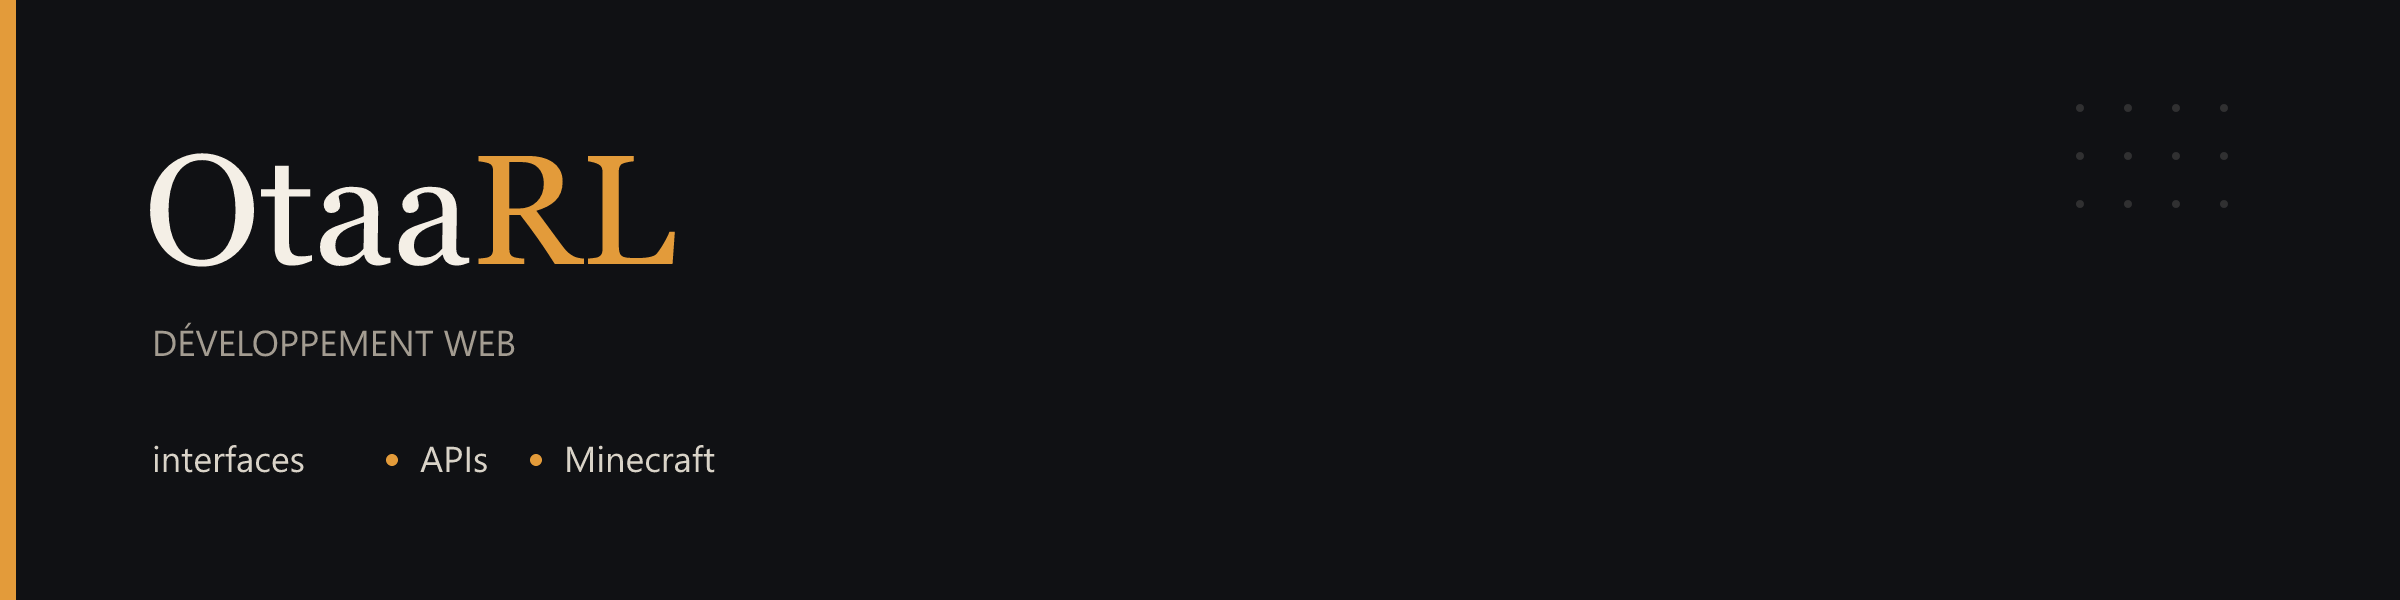
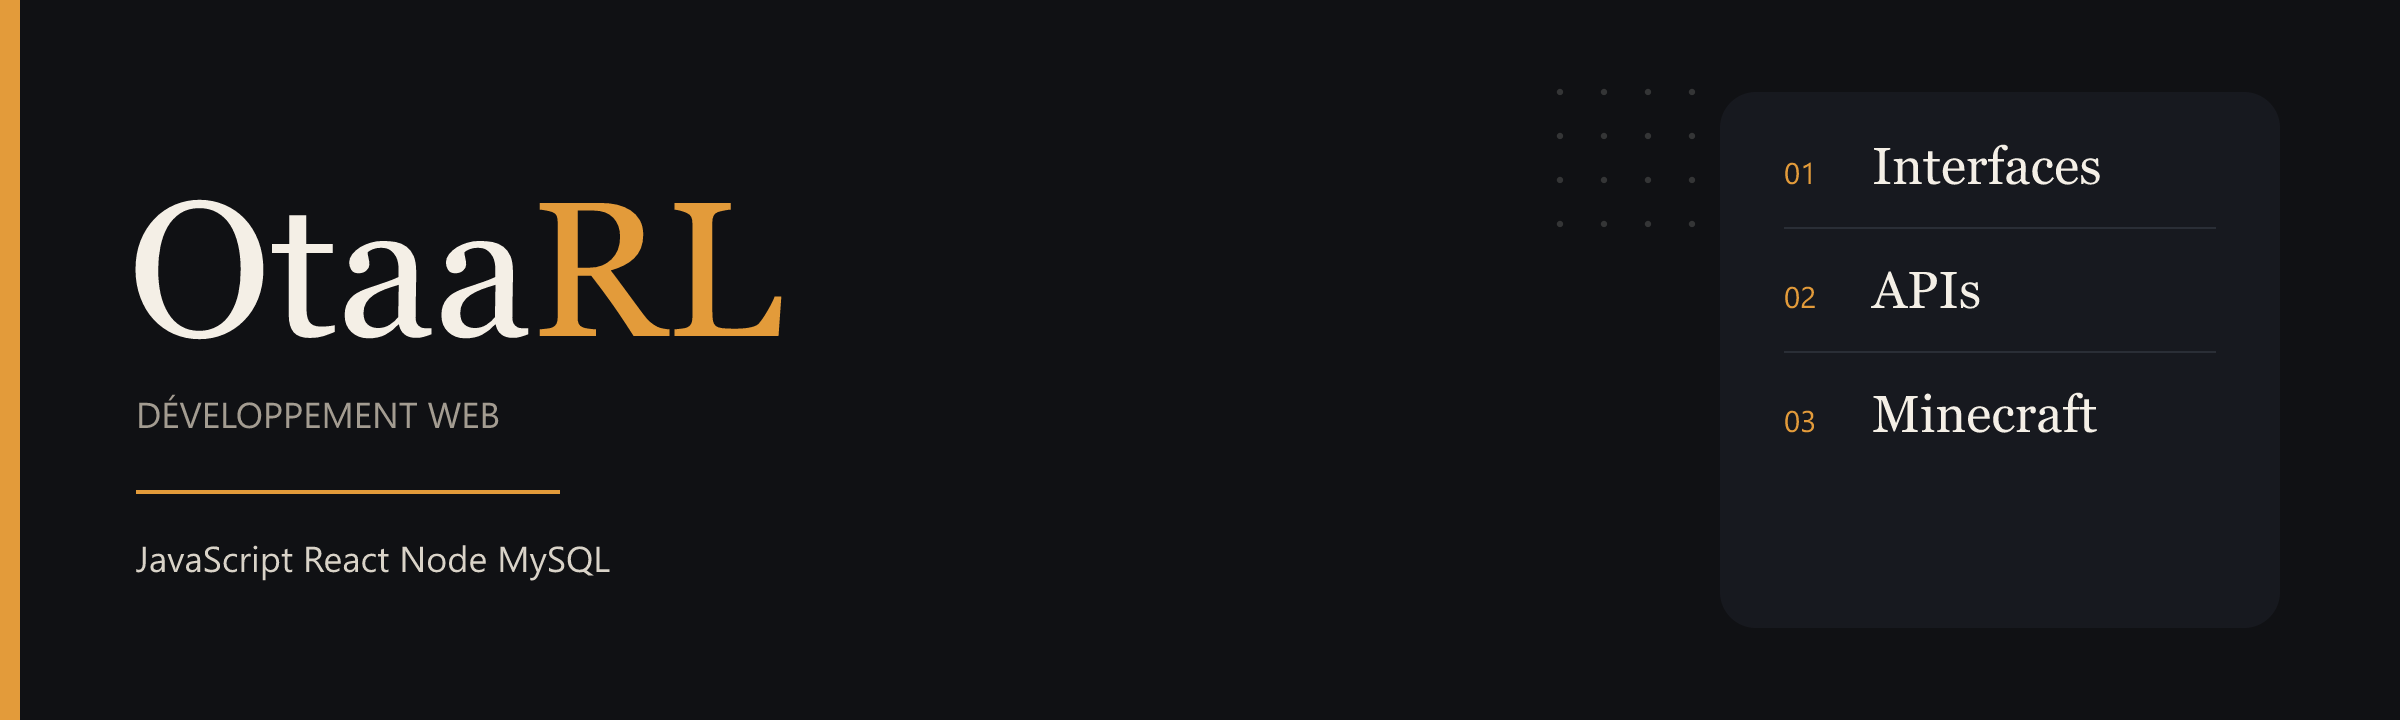
Passe le profil en page visuelle : cartes, stack, stats et serpent de contributions.

diff --git a/README.md b/README.md
@@ -1,32 +1,68 @@
-<picture>
-  <source media="(prefers-color-scheme: dark)" srcset="./banner-dark.png">
-  <img alt="OtaaRL — développement web" src="./banner-light.png" width="100%">
-</picture>
+<p align="center">
+  <img src="./banner-dark.png#gh-dark-mode-only" alt="OtaaRL, développement web" width="100%">
+  <img src="./banner-light.png#gh-light-mode-only" alt="OtaaRL, développement web" width="100%">
+</p>
 
-<br>
+<p align="center">
+  <img src="https://readme-typing-svg.demolab.com?font=Fira+Code&size=22&pause=1000&color=E39B3A&center=true&vCenter=true&width=820&height=50&lines=interfaces+et+APIs;modpack+Minecraft+NeoForge;JavaScript+%C2%B7+React+%C2%B7+MySQL;en+formation+d%C3%A9veloppement+web" alt="interfaces, APIs, Minecraft">
+</p>
 
-Je suis en formation développement web. Je fais des interfaces, des APIs, et à côté un modpack Minecraft que je package moi-même.
+<p align="center">
+  Je construis des interfaces et des APIs pendant ma formation, et un modpack Minecraft que je package moi-même.
+</p>
 
-<p>
-  <img alt="JavaScript" src="https://img.shields.io/badge/JavaScript-17140f?style=flat-square&amp;logo=javascript&amp;logoColor=e39b3a&amp;labelColor=17140f&amp;color=17140f">
-  <img alt="React" src="https://img.shields.io/badge/React-17140f?style=flat-square&amp;logo=react&amp;logoColor=e39b3a&amp;labelColor=17140f&amp;color=17140f">
-  <img alt="Node.js" src="https://img.shields.io/badge/Node.js-17140f?style=flat-square&amp;logo=nodedotjs&amp;logoColor=e39b3a&amp;labelColor=17140f&amp;color=17140f">
-  <img alt="Express" src="https://img.shields.io/badge/Express-17140f?style=flat-square&amp;logo=express&amp;logoColor=e39b3a&amp;labelColor=17140f&amp;color=17140f">
-  <img alt="MySQL" src="https://img.shields.io/badge/MySQL-17140f?style=flat-square&amp;logo=mysql&amp;logoColor=e39b3a&amp;labelColor=17140f&amp;color=17140f">
-  <img alt="Git" src="https://img.shields.io/badge/Git-17140f?style=flat-square&amp;logo=git&amp;logoColor=e39b3a&amp;labelColor=17140f&amp;color=17140f">
+<p align="center">
+  <img src="https://skillicons.dev/icons?i=html,css,js,react,vite,nodejs,express,mysql,git&perline=9&theme=dark#gh-dark-mode-only" alt="HTML, CSS, JavaScript, React, Vite, Node.js, Express, MySQL, Git">
+  <img src="https://skillicons.dev/icons?i=html,css,js,react,vite,nodejs,express,mysql,git&perline=9&theme=light#gh-light-mode-only" alt="HTML, CSS, JavaScript, React, Vite, Node.js, Express, MySQL, Git">
 </p>
 
 ## Projets
 
-| | |
-| --- | --- |
-| **[EventHub](https://github.com/OtaaRL/BDD-EXO)** | API REST pour des événements collaboratifs : comptes, JWT, inscriptions, commentaires. Node.js, Express, MySQL. |
-| **[events_front](https://github.com/OtaaRL/events_front)** | Front React / Vite prévu pour EventHub. |
-| **[Imperium](https://github.com/OtaaRL/Imperium-pack)** | Modpack Minecraft 1.21.1 sur NeoForge, versionné avec son manifeste. |
-| **[Launcher Imperium](https://github.com/OtaaRL/launcher-imperium)** | Launcher qui va avec le pack. |
-| **[Soundboard](https://github.com/OtaaRL/Projet-Soundboard)** | Petit projet son, repris d’un exercice. |
-| **[Récap de cours](https://github.com/OtaaRL/site-forma)** | Notes de formation, en HTML. |
+<p align="center">
+  <a href="https://github.com/OtaaRL/BDD-EXO">
+    <img src="./card-eventhub-dark.png#gh-dark-mode-only" width="420" alt="EventHub, API Node Express MySQL">
+    <img src="./card-eventhub-light.png#gh-light-mode-only" width="420" alt="EventHub, API Node Express MySQL">
+  </a>
+  &nbsp;&nbsp;
+  <a href="https://github.com/OtaaRL/Imperium-pack">
+    <img src="./card-imperium-dark.png#gh-dark-mode-only" width="420" alt="Imperium, modpack Minecraft">
+    <img src="./card-imperium-light.png#gh-light-mode-only" width="420" alt="Imperium, modpack Minecraft">
+  </a>
+</p>
 
-## En ce moment
+<p align="center">
+  <a href="https://github.com/OtaaRL/events_front">
+    <img src="./card-front-dark.png#gh-dark-mode-only" width="420" alt="EventHub UI, React et Vite">
+    <img src="./card-front-light.png#gh-light-mode-only" width="420" alt="EventHub UI, React et Vite">
+  </a>
+  &nbsp;&nbsp;
+  <a href="https://github.com/OtaaRL/launcher-imperium">
+    <img src="./card-launcher-dark.png#gh-dark-mode-only" width="420" alt="Launcher Imperium">
+    <img src="./card-launcher-light.png#gh-light-mode-only" width="420" alt="Launcher Imperium">
+  </a>
+</p>
 
-EventHub côté API, et le pack Imperium (mods, manifeste, launcher).
+<p align="center">
+  <a href="https://github.com/OtaaRL/Projet-Soundboard">Soundboard</a>
+  &nbsp;·&nbsp;
+  <a href="https://github.com/OtaaRL/site-forma">Récap de cours</a>
+</p>
+
+<p align="center">
+  <img src="./now-dark.png#gh-dark-mode-only" width="100%" alt="En ce moment : EventHub côté API et Imperium 1.21.1">
+  <img src="./now-light.png#gh-light-mode-only" width="100%" alt="En ce moment : EventHub côté API et Imperium 1.21.1">
+</p>
+
+## Activité
+
+<p align="center">
+  <img height="175" alt="Stats GitHub" src="https://github-readme-stats.vercel.app/api?username=OtaaRL&show_icons=true&hide_border=true&hide=issues&bg_color=101114&title_color=f4efe6&text_color=d9d3c8&icon_color=e39b3a&border_radius=16#gh-dark-mode-only">
+  <img height="175" alt="Stats GitHub" src="https://github-readme-stats.vercel.app/api?username=OtaaRL&show_icons=true&hide_border=true&hide=issues&bg_color=f6f1e7&title_color=17140f&text_color=2a261f&icon_color=b86a12&border_radius=16#gh-light-mode-only">
+  <img height="175" alt="Langages" src="https://github-readme-stats.vercel.app/api/top-langs/?username=OtaaRL&layout=compact&hide_border=true&bg_color=101114&title_color=f4efe6&text_color=d9d3c8&border_radius=16#gh-dark-mode-only">
+  <img height="175" alt="Langages" src="https://github-readme-stats.vercel.app/api/top-langs/?username=OtaaRL&layout=compact&hide_border=true&bg_color=f6f1e7&title_color=17140f&text_color=2a261f&border_radius=16#gh-light-mode-only">
+</p>
+
+<p align="center">
+  <img alt="Graphe de contributions" src="https://raw.githubusercontent.com/OtaaRL/OtaaRL/output/github-contribution-grid-snake-dark.svg#gh-dark-mode-only">
+  <img alt="Graphe de contributions" src="https://raw.githubusercontent.com/OtaaRL/OtaaRL/output/github-contribution-grid-snake.svg#gh-light-mode-only">
+</p>
